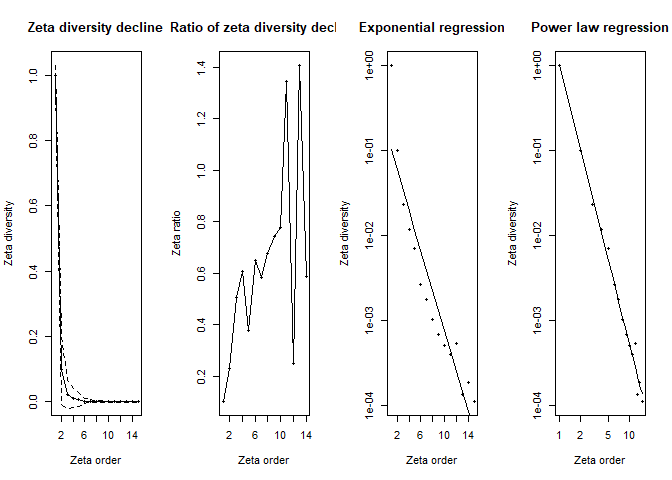
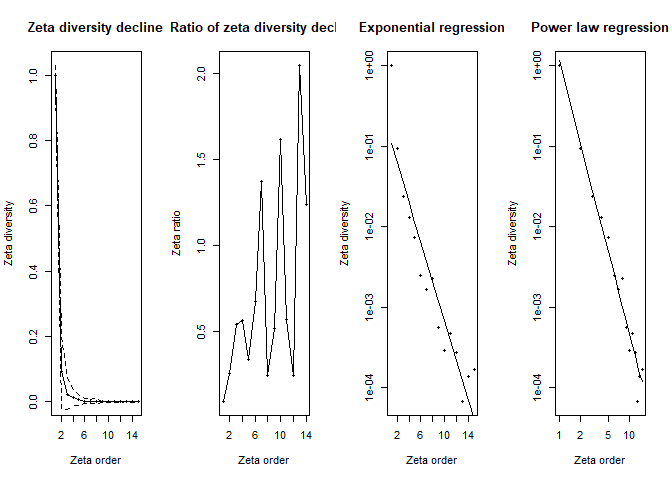
Update README

diff --git a/README.md b/README.md
@@ -1,6 +1,3 @@
-dissmapr: Workflow for Compositional Dissimilarity & Biodiversity
-Turnover Analysis
-================
 
 - [`dissmapr`](#dissmapr)
   - [A Novel Framework for Automated Compositional Dissimilarity and
@@ -842,7 +839,7 @@ Plot.ispline(isplines = zeta2.ispline, distance = TRUE)
 ``` r
 # Deviance explained summary results
 with(summary(zeta2$model), 1 - deviance/null.deviance) 
-#> [1] 0.2167637
+#> [1] 0.2670619
 # [1] 0.04414301
 # 0.04414301 means that approximately 4.41% of the variability in the response
 # variable is explained by your model. This is relatively low, suggesting that the
@@ -858,39 +855,39 @@ summary(zeta2$model)
 #> 
 #> Coefficients:
 #>              Estimate Std. Error t value Pr(>|t|)    
-#> (Intercept)  0.104533   0.008100  12.905  < 2e-16 ***
-#> obs_sum1    -0.047917   0.003873 -12.371  < 2e-16 ***
-#> obs_sum2     0.000000   0.017630   0.000 1.000000    
-#> obs_sum3     0.000000   0.033889   0.000 1.000000    
-#> temp_mean1   0.000000   0.039416   0.000 1.000000    
-#> temp_mean2   0.000000   0.012329   0.000 1.000000    
-#> temp_mean3   0.000000   0.016198   0.000 1.000000    
-#> iso1        -0.022323   0.014887  -1.500 0.134065    
-#> iso2         0.000000   0.009515   0.000 1.000000    
-#> iso3        -0.010248   0.014151  -0.724 0.469113    
-#> temp_wetQ1   0.000000   0.012014   0.000 1.000000    
-#> temp_wetQ2  -0.007877   0.010394  -0.758 0.448703    
-#> temp_wetQ3   0.000000   0.013552   0.000 1.000000    
-#> temp_dryQ1   0.000000   0.037535   0.000 1.000000    
-#> temp_dryQ2  -0.004234   0.012762  -0.332 0.740152    
-#> temp_dryQ3   0.000000   0.013171   0.000 1.000000    
-#> rain_dry1   -0.008304   0.007821  -1.062 0.288590    
-#> rain_dry2    0.000000   0.010092   0.000 1.000000    
-#> rain_dry3    0.000000   0.014942   0.000 1.000000    
-#> rain_warmQ1  0.000000   0.008756   0.000 1.000000    
-#> rain_warmQ2 -0.010978   0.011193  -0.981 0.326939    
-#> rain_warmQ3 -0.009394   0.016323  -0.576 0.565057    
-#> distance1   -0.046762   0.012326  -3.794 0.000158 ***
-#> distance2    0.000000   0.013237   0.000 1.000000    
-#> distance3   -0.007505   0.018452  -0.407 0.684289    
+#> (Intercept)  0.095647   0.007472  12.801  < 2e-16 ***
+#> obs_sum1    -0.053489   0.003637 -14.708  < 2e-16 ***
+#> obs_sum2     0.000000   0.014658   0.000  1.00000    
+#> obs_sum3     0.000000   0.023603   0.000  1.00000    
+#> temp_mean1   0.000000   0.038493   0.000  1.00000    
+#> temp_mean2  -0.011615   0.012392  -0.937  0.34885    
+#> temp_mean3   0.000000   0.016568   0.000  1.00000    
+#> iso1        -0.007920   0.014633  -0.541  0.58844    
+#> iso2        -0.001799   0.009469  -0.190  0.84935    
+#> iso3         0.000000   0.014331   0.000  1.00000    
+#> temp_wetQ1   0.000000   0.011254   0.000  1.00000    
+#> temp_wetQ2   0.000000   0.009887   0.000  1.00000    
+#> temp_wetQ3  -0.008404   0.013725  -0.612  0.54048    
+#> temp_dryQ1  -0.014851   0.035747  -0.415  0.67791    
+#> temp_dryQ2  -0.004152   0.011290  -0.368  0.71315    
+#> temp_dryQ3   0.000000   0.011385   0.000  1.00000    
+#> rain_dry1   -0.020625   0.007384  -2.793  0.00532 ** 
+#> rain_dry2    0.000000   0.009091   0.000  1.00000    
+#> rain_dry3    0.000000   0.012874   0.000  1.00000    
+#> rain_warmQ1 -0.006883   0.008114  -0.848  0.39648    
+#> rain_warmQ2 -0.010844   0.010124  -1.071  0.28439    
+#> rain_warmQ3  0.000000   0.015120   0.000  1.00000    
+#> distance1   -0.027423   0.011233  -2.441  0.01481 *  
+#> distance2    0.000000   0.012244   0.000  1.00000    
+#> distance3   -0.019272   0.018465  -1.044  0.29688    
 #> ---
 #> Signif. codes:  0 '***' 0.001 '**' 0.01 '*' 0.05 '.' 0.1 ' ' 1
 #> 
-#> (Dispersion parameter for gaussian family taken to be 0.001987652)
+#> (Dispersion parameter for gaussian family taken to be 0.001730039)
 #> 
-#>     Null deviance: 2.4743  on 999  degrees of freedom
-#> Residual deviance: 1.9380  on 975  degrees of freedom
-#> AIC: -3356.2
+#>     Null deviance: 2.3014  on 999  degrees of freedom
+#> Residual deviance: 1.6868  on 975  degrees of freedom
+#> AIC: -3495.1
 #> 
 #> Number of Fisher Scoring iterations: 2
 ```
